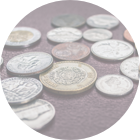
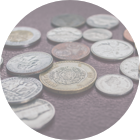
image edit

diff --git a/css/style.css b/css/style.css
@@ -6343,7 +6343,7 @@ a[href="#container"] {
 }
 .page-home .main-image .carousel-banner .slick-slide .img {
   box-sizing: border-box;
-  border: #fff solid 8px;
+  border: #fff solid 4px;
   background-size: cover;
   background-position: 50% 50% !important;
 }
